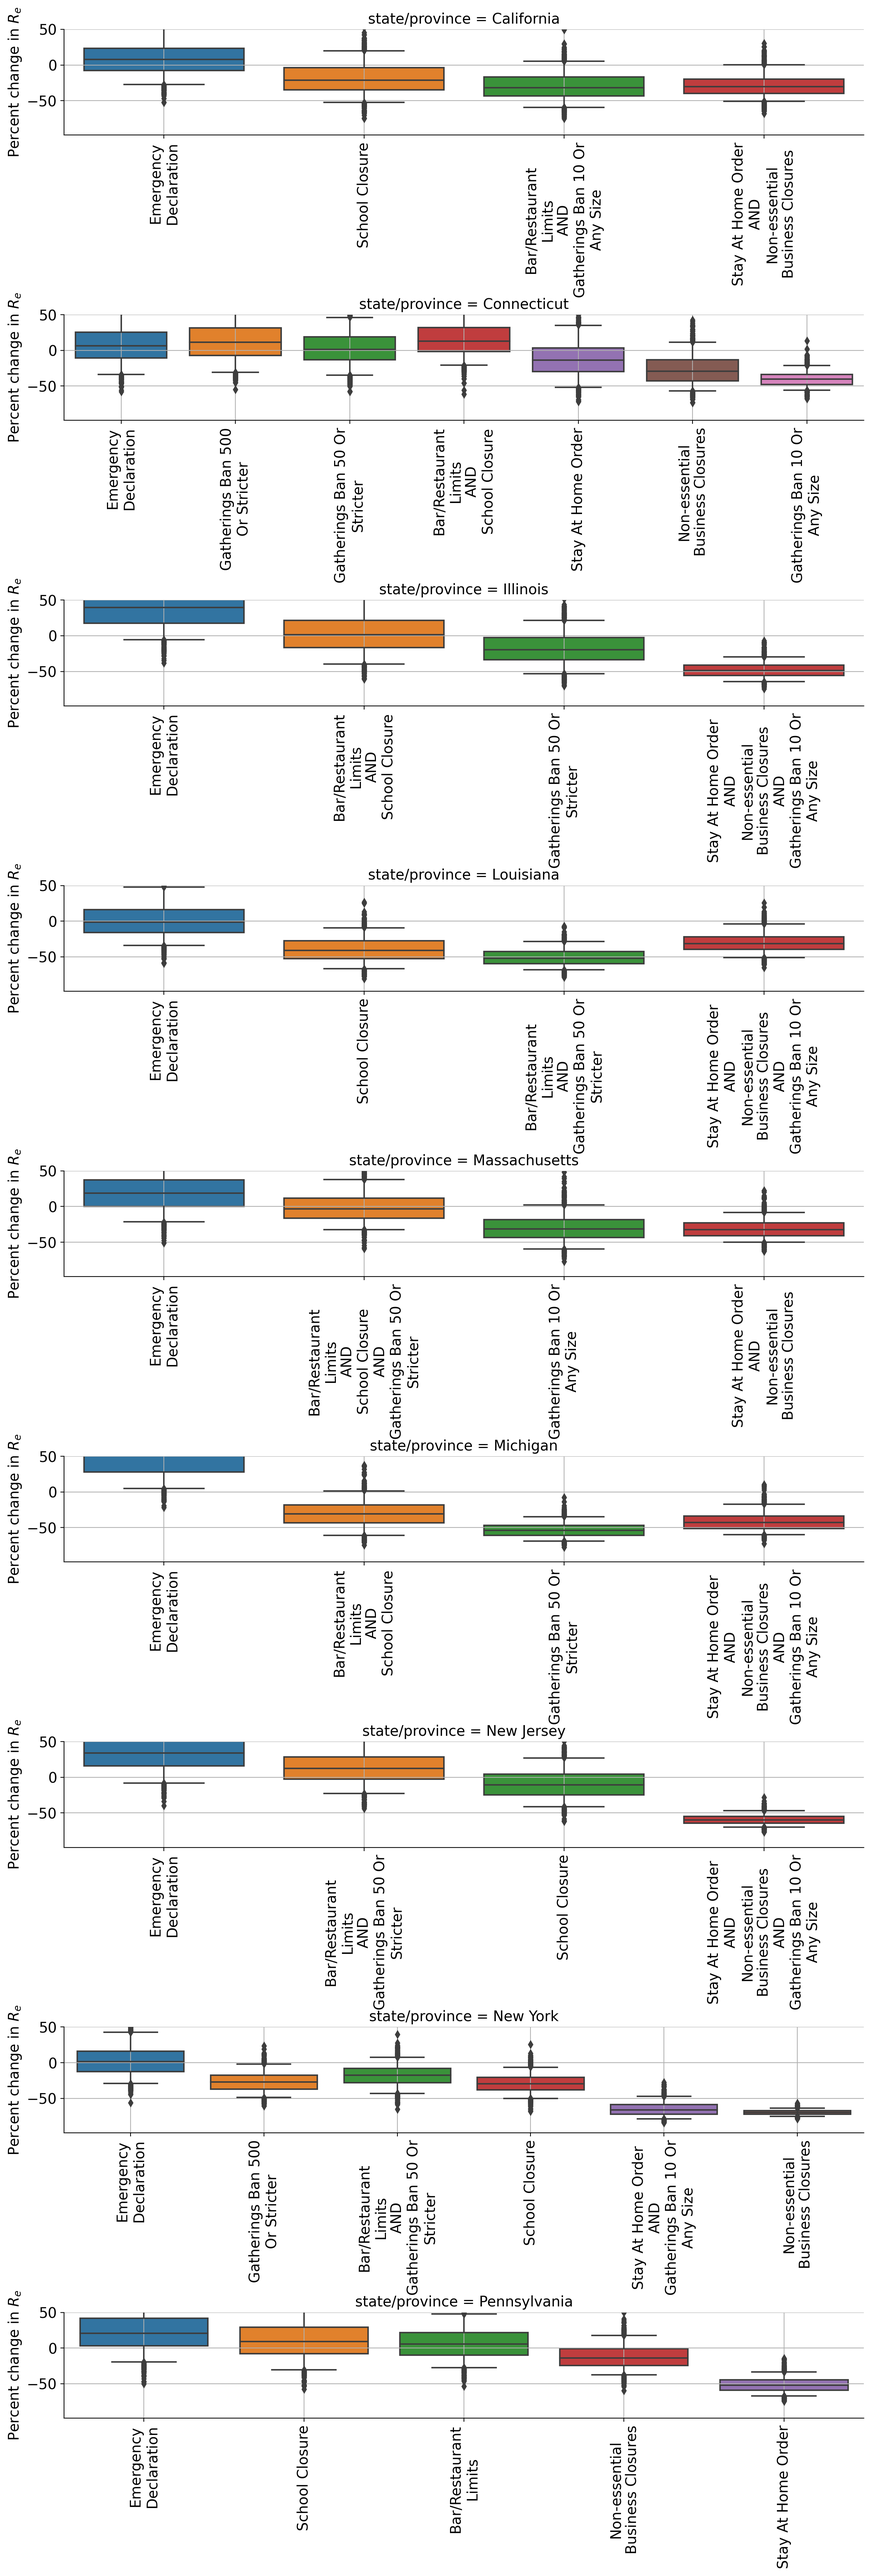
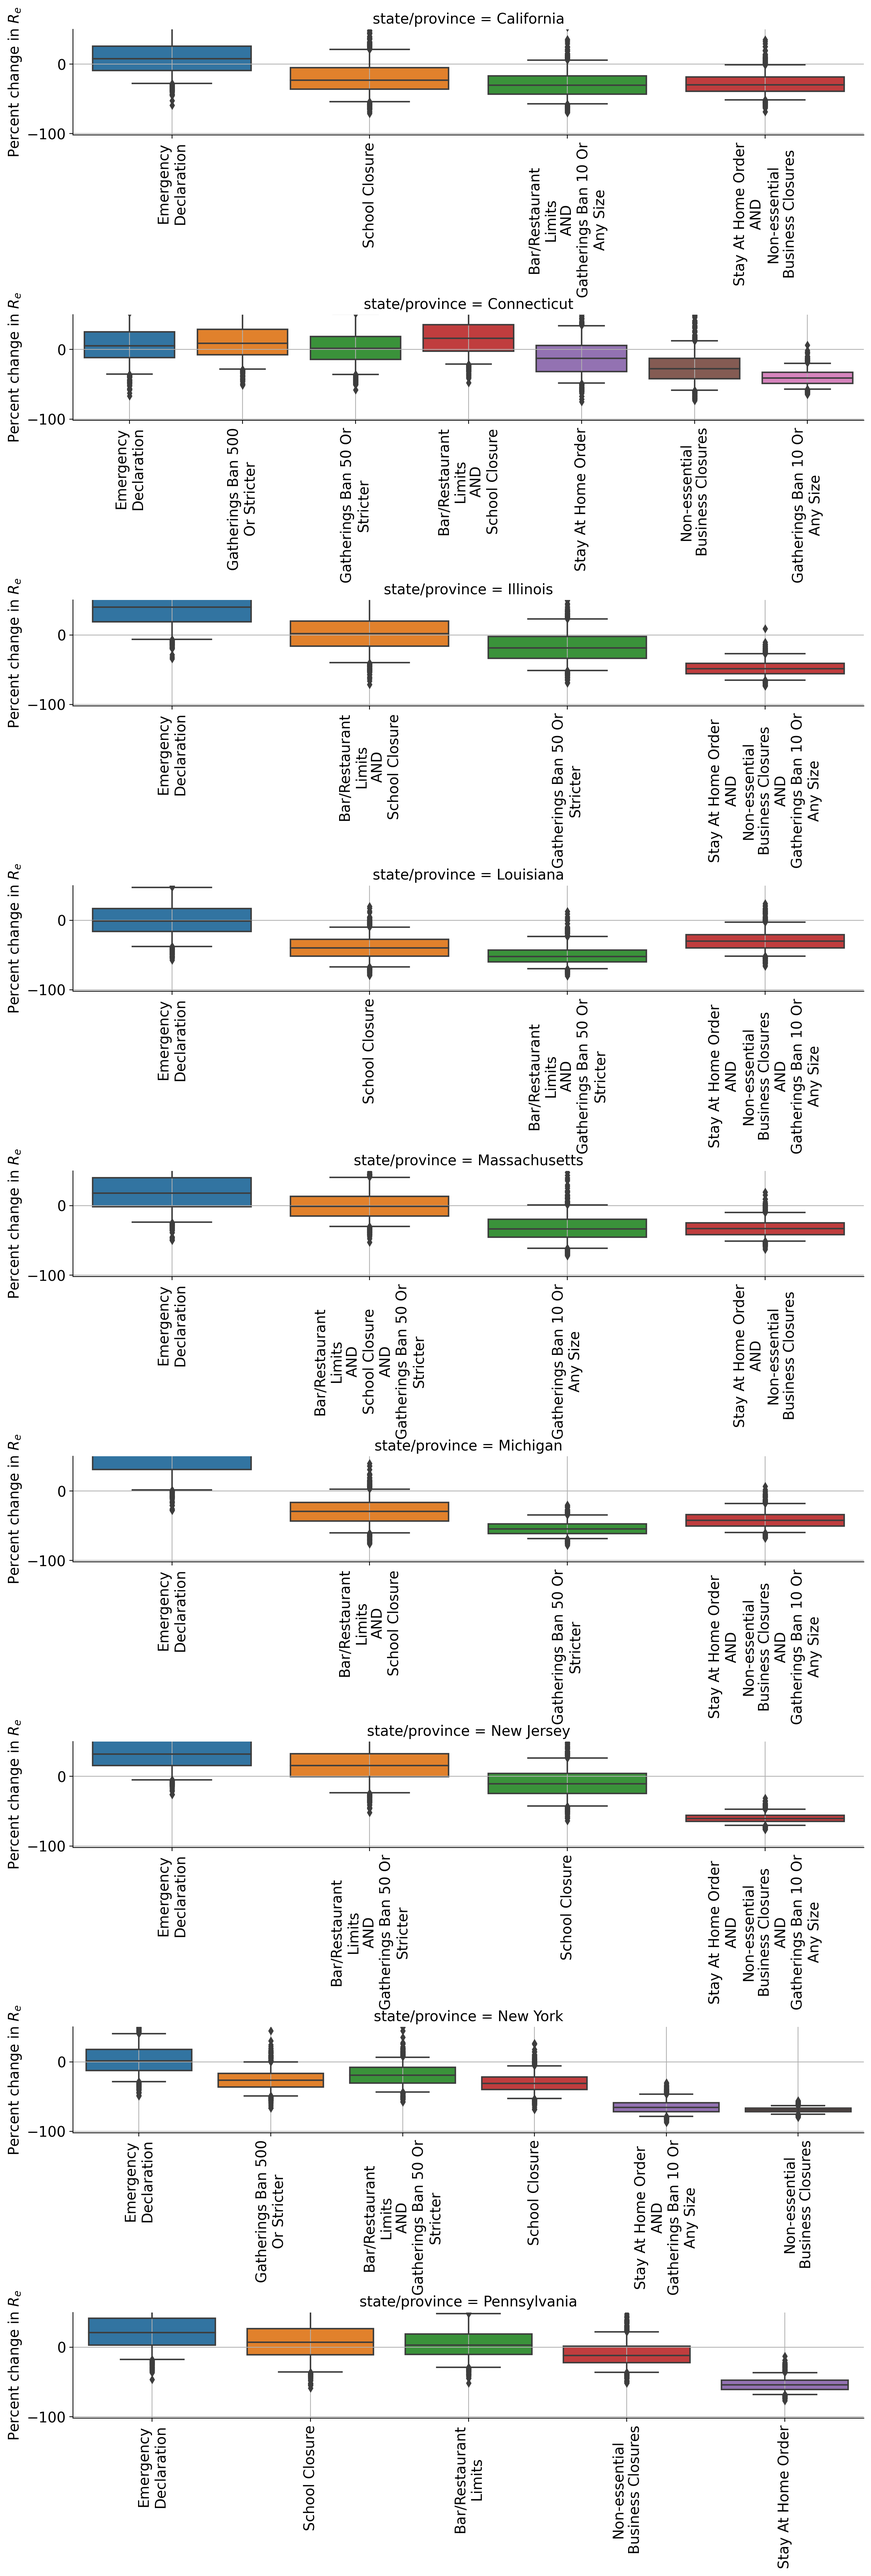
covid post draft 3

diff --git a/_layouts/post.html b/_layouts/post.html
@@ -2,7 +2,7 @@
 layout: default
 ---
 <script src="https://cdn.mathjax.org/mathjax/latest/MathJax.js?config=TeX-AMS-MML_HTMLorMML" type="text/javascript"></script> <!--This allows display of latex. Based on http://www.iangoodfellow.com/blog/jekyll/markdown/tex/2016/11/07/latex-in-markdown.html-->>
-<h1>{{ page.title }}</h1>
+<h1>{{ page.title | replace '_', ' '  }}</h1>
 <p class="meta">{{ page.date | date_to_string }}</p>
 
 <div class="notes">

diff --git a/_posts/2020-05-14-bayes_estimating_COVID_reproduction_number.md b/_posts/2020-05-14-bayes_estimating_COVID_reproduction_number.md
@@ -1,6 +1,6 @@
-# Bayesian estimation of COVD-19 Infection time series and reproduction number
 
-**THIS POST IS A WORK IN PROGRESS**
+
+# Bayesian estimation of COVD-19 Infection time series and reproduction number
 
 
 
@@ -12,15 +12,13 @@ This is a naive model I put together. I am not an epidemiologist and have made s
 
 ## Links
 
-Github repo <a href="url">link text</a>
+<a href="https://github.com/afinneg2/RZeroTools">RZeroTools  repository</a>
 
-Kaggle <a href="url">link text</a>
-
-
+<a href="https://www.kaggle.com/alexfinnegan/bayesian-estimation-of-infection-time-series">Kaggle Notebook</a>
 
 ## Motivation
 
-Good estimates of the rate of transmission of COVID-19 (COVID) as a function of time are necessary to measure effecitveness of policies to reduce the spread this disease. One measure of transmission is  the effective reproduction number,$$R_e$$ , which is defined as  "[the expected] number of cases generated [by one case] in the current state of a population" (https://en.wikipedia.org/wiki/Basic_reproduction_number).  One way to estimate $$R_e$$ on a day $$t$$ is to divide the cases for which infection occurs on day $$t$$ by the sum of cases capable of transmission on day $$t$$. This gives mean number of new cases generated per day by a single case. Multiplying by the time interval over which a case is capable of trasmission gives $$R_e$$.
+Good estimates of the rate of transmission of COVID-19 (COVID) as a function of time are necessary to measure effectiveness of policies to reduce the spread this disease. One measure of transmission is  the effective reproduction number,$$R_e$$ , which is defined as  "[the expected] number of cases generated [by one case] in the current state of a population" (https://en.wikipedia.org/wiki/Basic_reproduction_number).  One way to estimate $$R_e$$ on a day $$t$$ is to divide the cases for which infection occurs on day $$t$$ by the sum of cases capable of transmission on day $$t$$. This gives mean number of new cases generated per day by a single case. Multiplying by the time interval over which a case is capable of transmission gives $$R_e$$.
 
 Although it is tempting to use the number of cases confirmed by testing as a proxy to the number of infections on each day this approach presents at least two difficulties:
 
@@ -33,7 +31,7 @@ Here, we use reports of death due to COVID on each day to estimate the proportio
 
 ## Objectives
 
-The model and code below aim to estimate $$P_t$$, the probabilty that infection for a fatal case occurs on day $$t$$. This estimate and the assumption of statistical indepence between survival and the date of infection are used to calculate the $$R_e(t)$$ the effective reproduction number as a function of time.  We compare values of $$R_e(t)$$ before and after policy implementation in some of the US states hardest hit by COVID and try to draw conclusions about policy effectiveness.
+The model described below and at <a href="https://github.com/afinneg2/RZeroTools"> this linked code</a>  aim to estimate $$P_t$$, the probability that infection for a fatal case occurs on day $$t$$. This estimate and the assumption of statistical independence between survival and the date of infection are used to calculate the $$R_e(t)$$ the effective reproduction number as a function of time.  We compare values of $$R_e(t)$$ before and after policy implementation in some of the US states hardest hit by COVID and try to draw conclusions about policy effectiveness.
 
 
 
@@ -44,7 +42,7 @@ Description of symbols:
 - $$(d)_{d=1}^{d_m}$$ — the sequence of days for which we have casualty data for a population
 - $$I$$ - day of infection of a single fatal case (a random variable)
 - $$E$$ - day of observed event (in this case death but could also be hospitalization) for a single case (a random variable)
-- $$\mathbb{I}(\cdot)$$ — indicator function (1 if true , 0 if false)
+- $$\mathbb{1}(\cdot)$$ — indicator function (1 if true , 0 if false)
  - $$(P_t)_{t=1}^{d_m}$$  — A vector whose elements are probabilites that a casualty is infected on the corresponding day (A random vector in our Bayesian approach)
  - $$(N_d)_{d=1}^{d_m}$$ — A random vector represting the number of fatalities on day $d \in \{1,....d_m\}$
  - $$(n_d)_{d=1}^{d_m}$$ — the observed number of fatalities on day $d \in \{1,....d_m\}$
@@ -60,7 +58,7 @@ $$
 
 To derive this distribution we calculate the likelihood function for observed death dates and explain our choice of prior.
 
-### Likelihood for a single observation observation
+### Likelihood for a single observation
 
 The probabilty of death on day $$s$$ for a fatal infection condition that death occurs before the last date at which data is available is:
 
@@ -131,7 +129,7 @@ where $$f$$ is the multinomial distribution.
 We could try to find $$(P_t)_{1}^{d_m}$$ that maximizes the likelihood of $$(n_s)_{s=1}^{d_m}$$. However, I observed that this tends to give a few spikes in $$P_t$$ separated by days with $$P_t$$ near 0. This is unreasonable since we expect individuals infected on a day where $$P_t$$ is at a local maxium to acquire their infection from individuals infected on previous days. To address this I changed to a Bayesian approach to estimating $$P_t$$.  I used a  prior $$\mathbb{P}(P_t = p_t) \equiv h(p_t)$$ of the from
 
 $$
-h\left( (p_t)_{t=1}^{d_m}\right) \propto \exp\left\{-\sum_{t=T+2}^{d_m} \mu(t, (p_{t'})_{t'=1}^{d_m})\left[  \left(\log(p_t) - \log\sum_{i=1}^{T} p_{t-i}\right) -  \left(\log(p_{t-1}) - \log\sum_{i=1}^{T} p_{t-1-i}\right)  \right]^2 \right\}
+h\left( (p_t)_{t=1}^{d_m}\right) \propto \exp\left\{-\sum_{t=T+2}^{d_m} \mu(t, (p_{t'})_{t'=1}^{d_m})\left[  \left(\log(p_t) - \log\sum_{i=1}^{T} p_{t-i}\right) -  \left(\log(p_{t-1}) - \log\sum_{i=1}^{T} p_{t-1-i}\right)  \right]^2 \right\} \quad \textbf{[Prior]}
 $$
 
 To understand this choice of prior recall that $$T>1$$ is the number of days for which an infected individual can transmit the disease. Note:
@@ -159,7 +157,7 @@ $$
 Combining the likelihood and the prior, the posterior distribution for  $$P_t$$ is 
 
 $$
-\mathbb{P}\left( (P_t)_{t=1}^{d_m} = (p_t)_{t=1}^{d_m}| (N_s)_{s=1}^{d_m} = (n_s)_{s=1}^{d_m} \right) \propto  f\left( (n_s)_{s=1}^{d_m}, \left( \frac{\sum_{t=1}^{d_m} G_{s,t}P_t}{\sum_{s'=1}^{d_m}\sum_{t'=1}^{d_m}  G_{s',t'}P_{t'}} \right)_{s=1}^{d_m} \right)  h\left( (p_t)_{t=1}^{d_m}\right)
+\mathbb{P}\left( (P_t)_{t=1}^{d_m} = (p_t)_{t=1}^{d_m}| (N_s)_{s=1}^{d_m} = (n_s)_{s=1}^{d_m} \right) \propto  f\left( (n_s)_{s=1}^{d_m}, \left( \frac{\sum_{t=1}^{d_m} G_{s,t}P_t}{\sum_{s'=1}^{d_m}\sum_{t'=1}^{d_m}  G_{s',t'}P_{t'}} \right)_{s=1}^{d_m} \right)  h\left( (p_t)_{t=1}^{d_m}\right) \quad \textbf{[Posterior]}
 $$
 
 We sample from this posterior distribution using Markov Chain Monte Carlo (MCMC). Plots of $$P_t$$ illustrate the posterior mean with shading of a 95% credible interval.
@@ -176,25 +174,36 @@ Plots of $$R_e(t)$$ illustrate the posterior mean with shading of a 95% credible
 
 ### Change in $$R_e(t)$$  following policy implementation 
 
-We measure the change in $$R_e(t)$$ before and after policy implementation by comparing the mean value of $$R_e(t)$$ over the 7 days before implementation of the new policy with the mean of $$R_e(t)$$ calcuated on the day of implementation and the following 6 days. The violin plots in **Results and Discussion** show the posterior distribtution of the percent change in these means.   
+We measure the change in $$R_e(t)$$ before and after policy implementation by comparing the mean value of $$R_e(t)$$ over the 7 days before implementation of the new policy with the mean of $$R_e(t)$$ calcuated on the day of implementation and the following 6 days. The box and whisker plots in **Results and Discussion** show the posterior distribtution of the percent change in these means.   
 
-One issue with this "before vs after" approach is that several policies are frequenctly implemented in just a few days.  To address this, when policies are implemented on the same day they are treated as a single policy and given time same distribution of $$R_e(t)$$; when a second policy is implemented during the 6 day window following a first policy the 6 day window following the first policy is right truncated to prevent including in the mean values of $$R_e(t)$$  from days affected by the second policy. I feel this appoch is too adhoc. An improved approach might start with a model where R_e(t)  is a function of policies in place (see **Weakness and Future Work**).
+One issue with this "before vs after" approach is that several policies are frequenctly implemented in just a few days.  To address this, when policies are implemented on the same day they are treated as a single policy and given time same distribution of $$R_e(t)$$; when a second policy is implemented during the 6 day window following a first policy the 6 day window following the first policy is right truncated to prevent including in the mean values of $$R_e(t)$$  from days affected by the second policy. I feel this appoch is too adhoc. An improved approach might start with a model where $$R_e(t)$$  is a function of policies in place (see **Weakness and Future Work**).
 
 ### Policy enactment dates
 
-Dates of policy enactment were curanted manually from a web search and then
+Dates of policy enactment were curanted manually from a web search and then assigned to the following categories:
+
+- Emergency Declairation
+- Bar/Restaurant Limits
+- School Closures
+- Gathering bans for between 500 and 50 people
+- Gathering bans for between 50 and 10 people
+- Gathering bans for 10 or fewer people.
+- Non-essential buisness closures
+- Stay at home order
 
 ## Results and Discussion
 
-Results shown are for data fit on 5/14/2020. We consider the states with 10 most COVID casualties as of this date. Hyperparameter choices where
+Results shown are for data fit on 5/17/2020. We consider the states with 10 most COVID casualties as of this date. Hyperparameter choices where
 
 $$
-\mu_0= 13. \\
-\text{policy_factor} = 0.01 \\
-T=7
+\begin{align}
+&\mu_0= 13. \\
+&\text{policy_factor} = 0.01 \\
+&T=7
+\end{align}
 $$
 
-First let's demonstrate that the model can produce a good fit to oserved data. Note the y axis (not labeled : -( ) is the number of deaths per day. Red is the data an is obtained from (JHU). Lines show the posterior mean for the expected number of casualties on each day along with 95% credible intervals. These plots can be used to make pedictions about the average number of deaths occuring in the following days. Importantly these forecasts do not include any future infections and thus will underestimate mean numbers of deaths on future days with increasing underestimation on later dates.
+First let's demonstrate that the model can produce a good fit to oserved data.  Red is the data an is obtained from (JHU). Lines show the posterior mean for the expected number of casualties on each day along with 95% credible intervals. These plots can be used to make pedictions about the average number of deaths occuring in the following days. Importantly these forecasts do not include any future infections and thus will underestimate mean numbers of deaths on future days with increasing underestimation on later dates.
 
 <img src="../assets/images/bayes_estimating_COVID_predicted_mean_deaths_by_day.png" onerror="this.onerror=null;this.src='{{ site.baseurl }}/assets/images//bayes_estimating_COVID_predicted_mean_deaths_by_day.png';"  width='800'>
 
@@ -204,7 +213,7 @@ Next, we'll plot estimated time-series for infections and effective reproduction
 
 <img src="../assets/images/bayes_estimating_COVID_Re_predicted.png" onerror="this.onerror=null;this.src='{{ site.baseurl }}/assets/images/bayes_estimating_COVID_Re_predicted.png';" width='800'>
 
-Points of sharp decrease in $$R_e$$ are associated with some of the dates of policy change.  Although our piecewise definition of $$\mu(t,(p_{t'})_{t'1}^{d_m})$$ favors sharp change on these dates. We observe qualitatively similar results when $$\mu(t,(p_{t'})_{t'1}^{d_m}) = \mu_0$$  for all days.
+Points of sharp decrease in $$R_e$$ are associated with some of the dates of policy change.  Although our piecewise definition of $$\mu(t,(p_{t'})_{t'1}^{d_m})$$ favors sharp change on these dates. We observe qualitatively similar results when $$\mu(t,(p_{t'})_{t'1}^{d_m}) = \mu_0$$  for all days (data not shown).
 
 Next, we make box and whiskers plots showing the posterior distribution of percent change in the mean of $$R_e(t)$$ on 7 days before and up to 7 days after implemention of new policies. As mentioned in **Model: Change in $$R_e(t)$$  following policy implementation**  the post-implementation interval is right truncated if it overlaps implementation of subsequent policy. *Note the plots are only available for the states and policies for which dates have been manually curated. They may be incomplete.*
 
@@ -244,6 +253,6 @@ Verity et al. 2020. "Estimates of the severity of coronavirus disease 2019:a mod
 
 
 
-### Acknowledgments
+## Acknowledgments
 
 I would like to thank my two brothers who helped with data curation and writing code.
